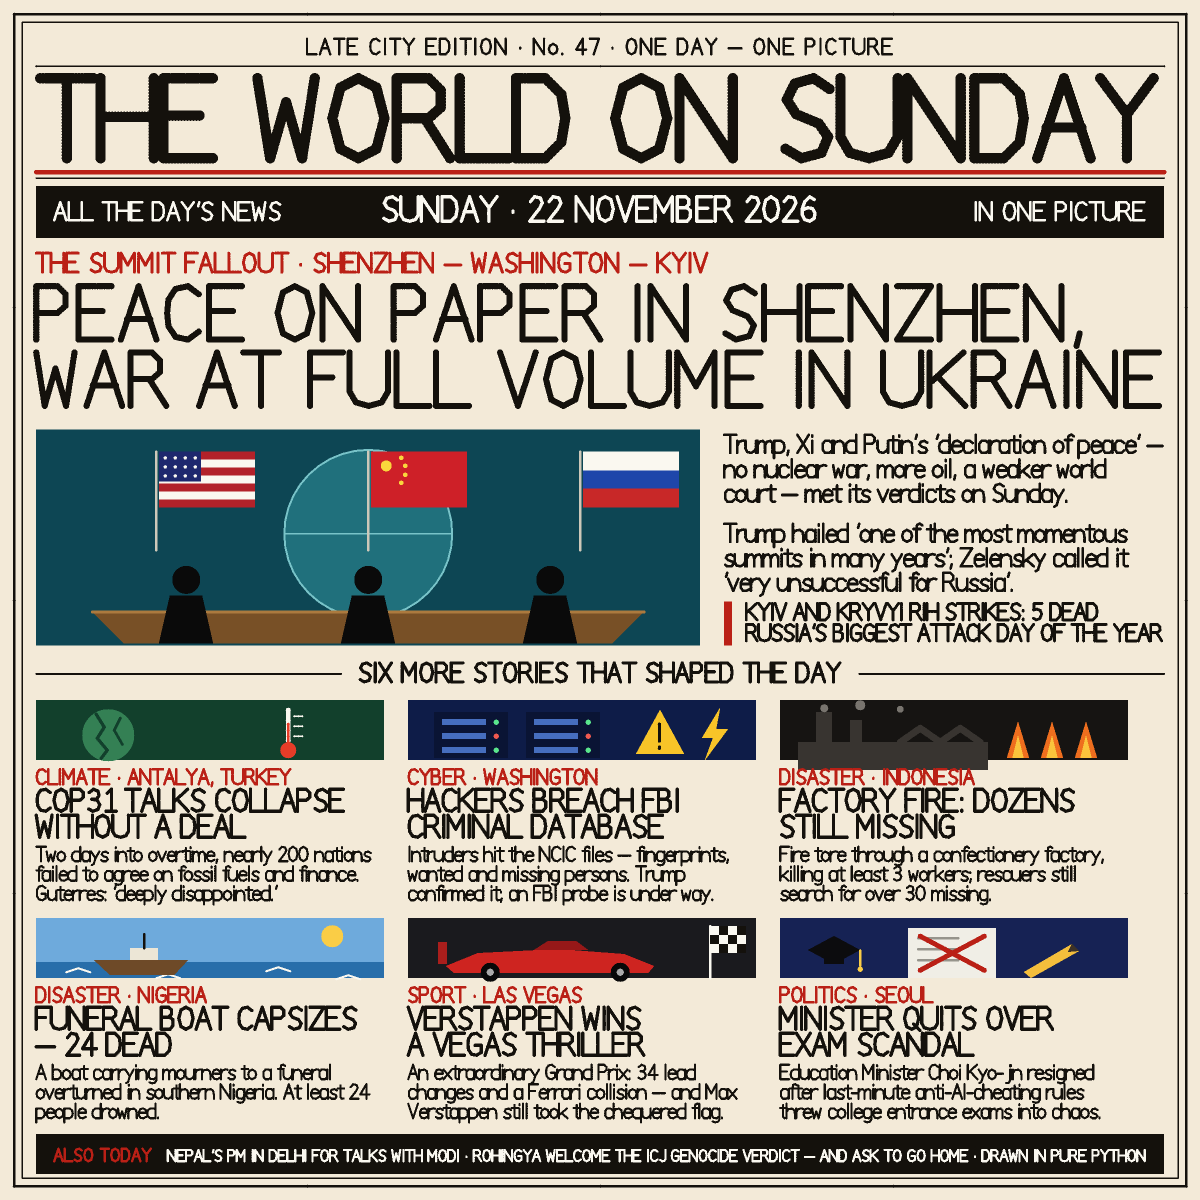
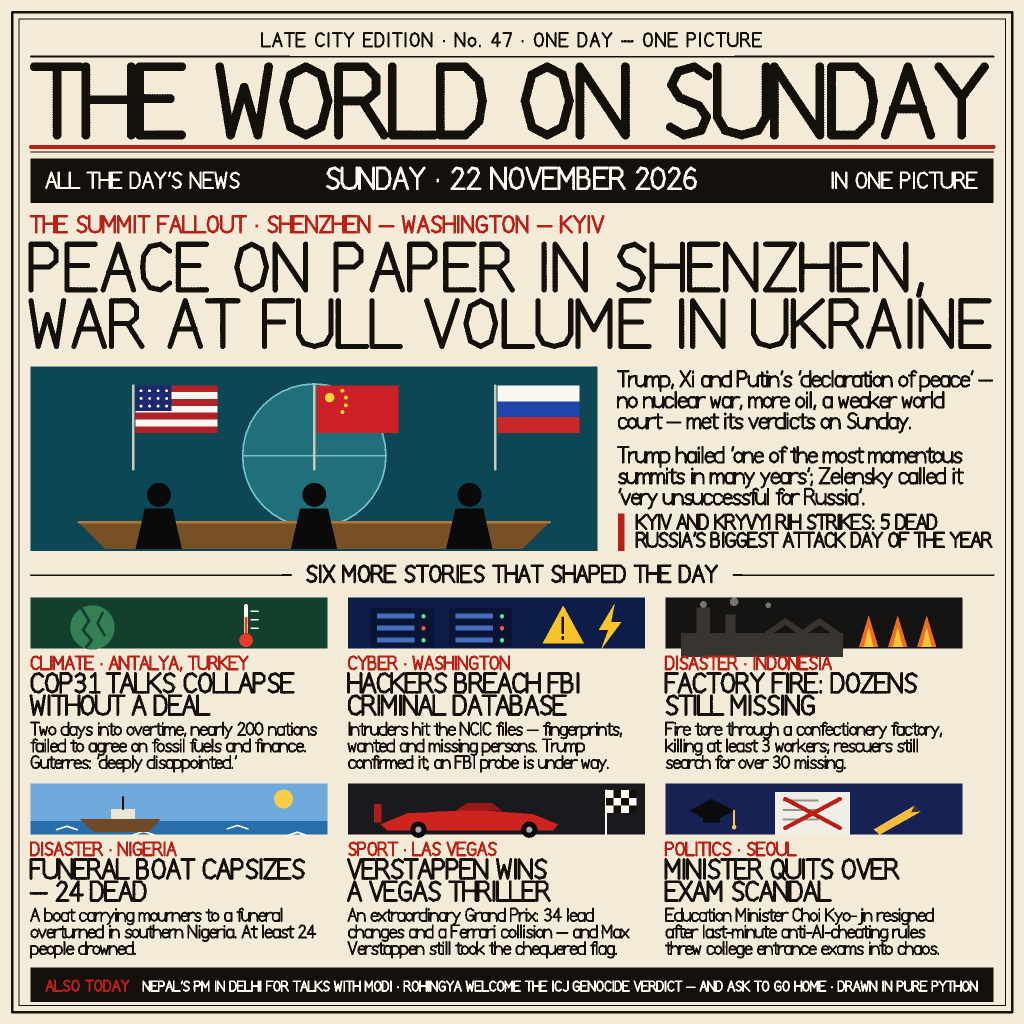
Render at 1024x1024: the bounty gate caps entry dimensions at 1024

diff --git a/main.py b/main.py
@@ -119,8 +119,9 @@ def glyph(ch):
 
 # ---------------------------------------------------------------- canvas
 SS = 2                      # supersample factor (rendered big, averaged down)
-W, H = 1200, 1200           # final size
+W, H = 1024, 1024           # final size (the bounty gate caps entries at 1024x1024)
 DW, DH = W * SS, H * SS
+DS = DW / 1200.0            # layout is designed on a 1200px grid; DS maps it to device px
 BUF = bytearray(DW * DH * 3)
 
 
@@ -139,8 +140,8 @@ def fill_all(rgb):
 
 
 def rect(x, y, w, h, rgb):
-    x0, y0 = int(round(x * SS)), int(round(y * SS))
-    x1, y1 = int(round((x + w) * SS)), int(round((y + h) * SS))
+    x0, y0 = int(round(x * DS)), int(round(y * DS))
+    x1, y1 = int(round((x + w) * DS)), int(round((y + h) * DS))
     rw = bytes(rgb) * max(0, x1 - x0)
     for yy in range(max(0, y0), min(DH, y1)):
         i = (yy * DW + max(0, x0)) * 3
@@ -148,7 +149,7 @@ def rect(x, y, w, h, rgb):
 
 
 def disc(cx, cy, r, rgb):
-    cx, cy, r = cx * SS, cy * SS, r * SS
+    cx, cy, r = cx * DS, cy * DS, r * DS
     x0, x1 = int(cx - r - 1), int(cx + r + 1)
     y0, y1 = int(cy - r - 1), int(cy + r + 1)
     r2 = r * r
@@ -162,8 +163,8 @@ def disc(cx, cy, r, rgb):
 
 def line(x0, y0, x1, y1, rgb, wdt):
     """Thick line with round caps, drawn by stamping discs."""
-    x0, y0, x1, y1 = x0 * SS, y0 * SS, x1 * SS, y1 * SS
-    r = wdt * SS / 2.0
+    x0, y0, x1, y1 = x0 * DS, y0 * DS, x1 * DS, y1 * DS
+    r = wdt * DS / 2.0
     dx, dy = x1 - x0, y1 - y0
     dist = max(abs(dx), abs(dy))
     steps = max(1, int(dist / max(1.0, r * 0.55)))
@@ -190,7 +191,7 @@ def poly(pts, rgb, wdt, close=False):
 
 def fill_poly(pts, rgb):
     """Scanline polygon fill (even-odd), device space."""
-    dp = [(x * SS, y * SS) for x, y in pts]
+    dp = [(x * DS, y * DS) for x, y in pts]
     ys = [p[1] for p in dp]
     y0, y1 = int(min(ys)), int(max(ys))
     n = len(dp)
@@ -480,23 +481,23 @@ def box(x, y, idx, kicker, headlines, body):
 def main():
     fill_all(PAPER)
     for inset, wd in ((14, 3), (22, 1.4)):
-        poly([(inset, inset), (W - inset, inset), (W - inset, H - inset),
-              (inset, H - inset)], INK, wd, close=True)
-    draw_text(W / 2, 54, "LATE CITY EDITION \u00b7 No. 47 \u00b7 ONE DAY \u2014 ONE PICTURE",
+        poly([(inset, inset), (1200 - inset, inset), (1200 - inset, 1200 - inset),
+              (inset, 1200 - inset)], INK, wd, close=True)
+    draw_text(600, 54, "LATE CITY EDITION \u00b7 No. 47 \u00b7 ONE DAY \u2014 ONE PICTURE",
               15.5, INK, 2.4, tracking=2.5, align='center')
-    line(36, 66, W - 36, 66, INK, 2)
+    line(36, 66, 1164, 66, INK, 2)
     mast = "THE WORLD ON SUNDAY"
     cap = fit_cap(mast, 1120, 3)
-    draw_text(W / 2, 78 + cap, mast, cap, INK, cap * 0.13, tracking=3, align='center')
+    draw_text(600, 78 + cap, mast, cap, INK, cap * 0.13, tracking=3, align='center')
     ry = 78 + cap + 14
-    line(36, ry, W - 36, ry, RED, 4.5)
-    line(36, ry + 6, W - 36, ry + 6, INK, 1.4)
+    line(36, ry, 1164, ry, RED, 4.5)
+    line(36, ry + 6, 1164, ry + 6, INK, 1.4)
     bar_y = ry + 14
     rect(36, bar_y, 1128, 52, INK)
     draw_text(54, bar_y + 34, "ALL THE DAY'S NEWS", 18, WHITE, 2.6, tracking=1)
-    draw_text(W / 2, bar_y + 35, "SUNDAY \u00b7 22 NOVEMBER 2026", 24.5, WHITE, 3.4,
+    draw_text(600, bar_y + 35, "SUNDAY \u00b7 22 NOVEMBER 2026", 24.5, WHITE, 3.4,
               tracking=1, align='center')
-    draw_text(W - 54, bar_y + 34, "IN ONE PICTURE", 18, WHITE, 2.6, tracking=1, align='right')
+    draw_text(1146, bar_y + 34, "IN ONE PICTURE", 18, WHITE, 2.6, tracking=1, align='right')
     kick_y = bar_y + 86
     draw_text(36, kick_y, "THE SUMMIT FALLOUT \u00b7 SHENZHEN \u2014 WASHINGTON \u2014 KYIV",
               19, RED, 3, tracking=1.2)
@@ -524,10 +525,10 @@ def main():
     draw_text(tx + 22, sb_y + 39, "RUSSIA'S BIGGEST ATTACK DAY OF THE YEAR", 16.5, INK, 2.9)
     div_y = lead_y + 252
     div_txt = "SIX MORE STORIES THAT SHAPED THE DAY"
-    draw_text(W / 2, div_y, div_txt, 19, INK, 3.2, tracking=1, align='center')
+    draw_text(600, div_y, div_txt, 19, INK, 3.2, tracking=1, align='center')
     div_hw = text_w(div_txt, 19, 1) / 2
-    line(36, div_y - 8, W / 2 - div_hw - 18, div_y - 8, INK, 2)
-    line(W / 2 + div_hw + 18, div_y - 8, W - 36, div_y - 8, INK, 2)
+    line(36, div_y - 8, 600 - div_hw - 18, div_y - 8, INK, 2)
+    line(600 + div_hw + 18, div_y - 8, 1164, div_y - 8, INK, 2)
     for i, (kick, heads, body) in enumerate(STORIES):
         box(36 + (i % 3) * 372, 700 + (i // 3) * 218, i, kick, heads, body)
     rect(36, 1134, 1128, 40, INK)
@@ -535,7 +536,7 @@ def main():
     fx = 54 + text_w("ALSO TODAY", 12.5, 1) + 16
     ftext = ("NEPAL'S PM IN DELHI FOR TALKS WITH MODI \u00b7 ROHINGYA WELCOME THE ICJ "
              "GENOCIDE VERDICT \u2014 AND ASK TO GO HOME \u00b7 DRAWN IN PURE PYTHON")
-    fcap = min(12.5, fit_cap(ftext, W - 54 - fx, 0.5))
+    fcap = min(12.5, fit_cap(ftext, 1200 - 54 - fx, 0.5))
     draw_text(fx, 1161, ftext, fcap, WHITE, 2.2, tracking=0.5)
     outdir = os.environ.get("MAKEFUN_OUTPUT_DIR") or os.path.dirname(os.path.abspath(__file__))
     save_png(os.path.join(outdir, "entry.png"))
